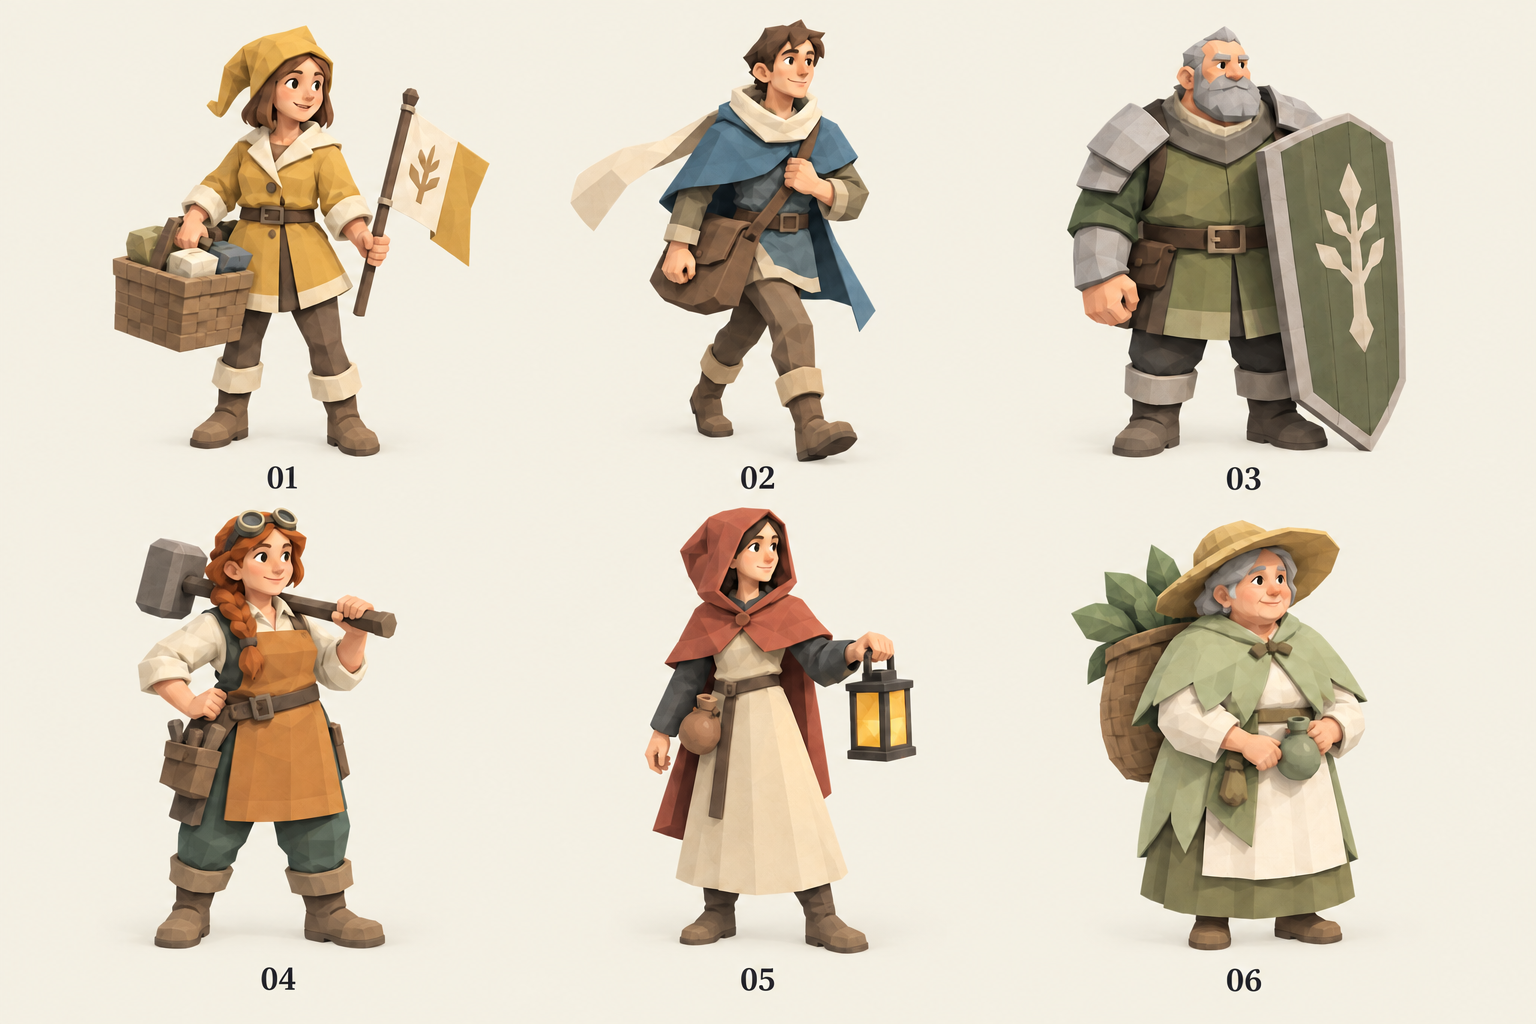
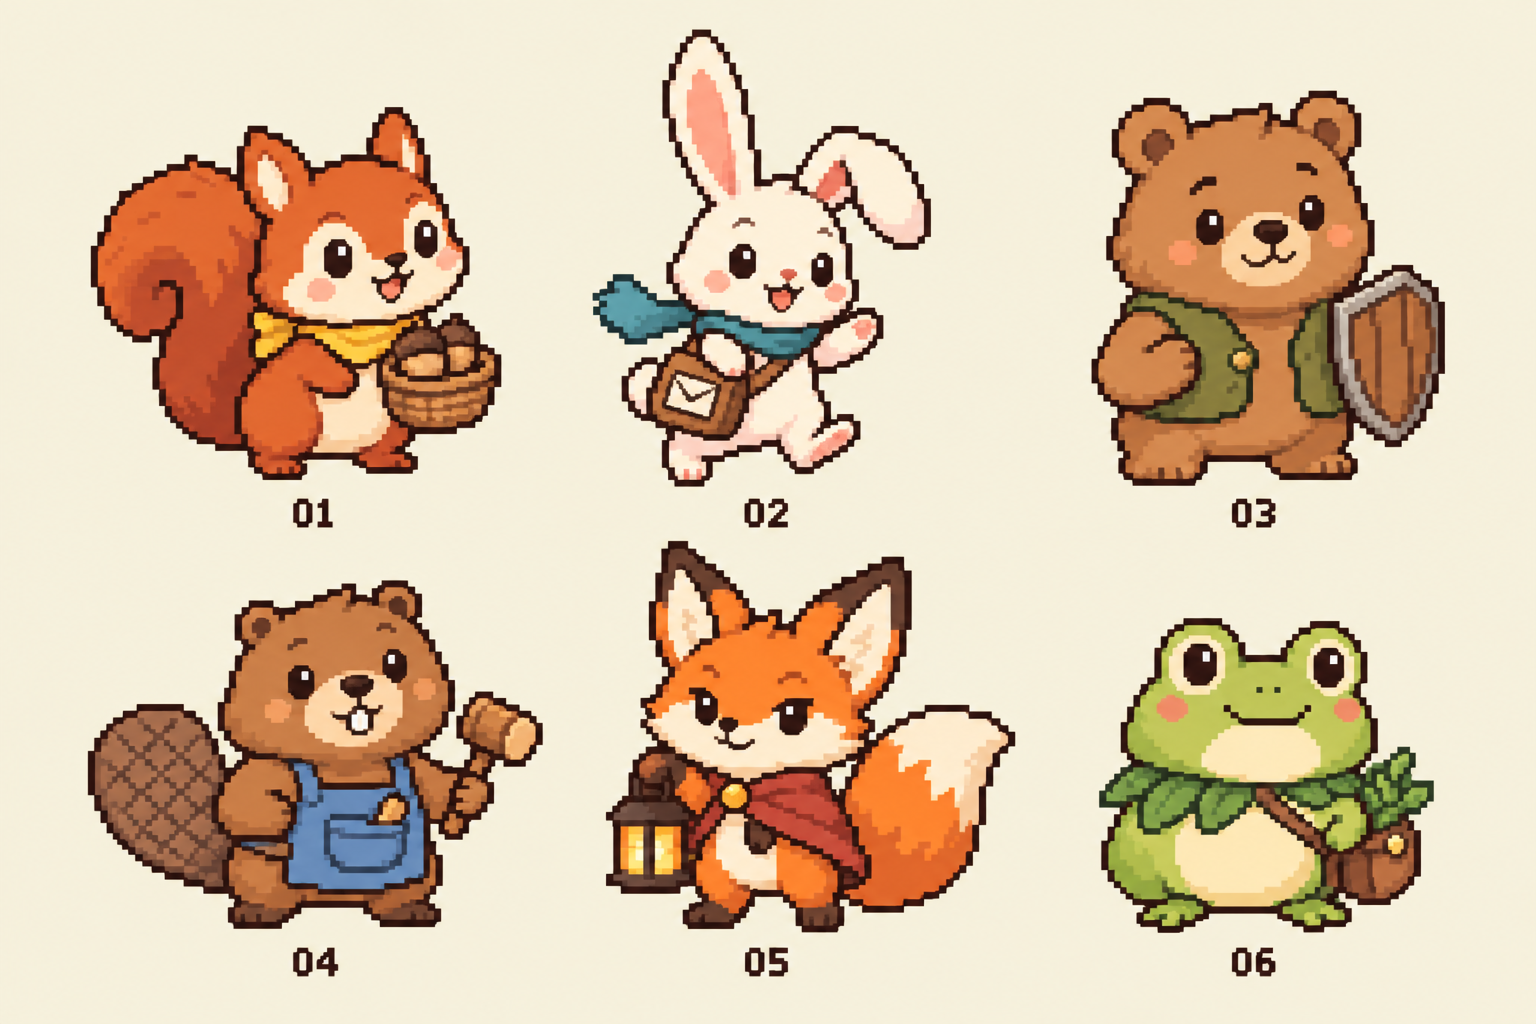
将指挥官造型调整为可爱像素动物

diff --git a/docs/art/block_war_commanders_prompt.md b/docs/art/block_war_commanders_prompt.md
@@ -1,25 +1,32 @@
-# 指挥官造型对照板 · 生图记录
+# 可爱像素动物指挥官 · 生图记录
 
-工具：内置 image_gen，经 imagegen 技能执行。用途：六名可选指挥官的造型提案，不作为正式游戏模型或技能特效。
+工具：内置 image_gen，经 imagegen 技能执行。用途：六名可选指挥官的造型对照板；不作为正式游戏动画图集。生成后仅修整背景与编号的可读性。
 
-## 初版提示词
+用户确认的方向：像素风格、更加可爱、全部为动物。编号与玩法定位保持对应，形象依次为松鼠、兔子、小熊、海狸、狐狸、青蛙。
+
+## 生成提示词
 
 ```text
 Use case: stylized-concept.
-Asset type: ONE six-character art-direction comparison sheet for a Godot low-poly woodland medieval building-conquest strategy game. This is a proposal sheet, not finished in-game assets.
-Primary request: six selectable HUMAN commanders, each recognisable from silhouette alone, matching small painted wooden toy soldiers and warm rural stone/wood buildings. Hand-authored game art sensibility, economical flat polygonal planes, 3D low-poly maquette render, plain matte colors. No photoreal skin, no ornate RPG armor, no glossy collectible plastic, no AI-fantasy clutter.
-Composition: landscape board, three equally spaced full-body figures across the top and three across the bottom, identical orthographic three-quarter camera and scale, each with enough negative space. Warm off-white plain paper backdrop and only soft contact shadows. One neat small dark label below each character, exact labels '01', '02', '03', '04', '05', '06'. No other text, no cards, no circles or pedestals behind figures, no UI panels. Every figure's boots visible.
-01: hazelnut village quartermaster, welcoming practical young woman, broad mustard soft cap with one bent tip, short wheat-colored coat, square wicker supply basket, one small folded muster flag. Compact balanced triangular silhouette, mustard and flax.
-02: swift village courier, lively lanky young man, short asymmetrical muted teal cloak and a long cream scarf trailing sideways, leather message satchel, light boots, forward poised stance. Tall slim diagonal silhouette, blue-green and tan.
-03: old bridge warden, broad stocky older man with a blocky short grey beard, square olive-grey wooden shield reaching shoulder height, modest stone-colored shoulder plates, sturdy stance. Wide rectangular silhouette, slate and moss.
-04: copper workshop engineer, curious sturdy woman with one chunky side braid, ochre leather apron, tiny brass goggles resting on forehead, wooden mallet over one shoulder, blocky tool pouch. Asymmetrical T silhouette, copper and muted spruce.
-05: night watch firekeeper, reserved slim adult woman in a short brick-red hood with a pointed folded corner, plain long sand-colored tunic, a simple square amber lantern held away from body and small clay oil pot on belt. Lantern is warm but restrained, no floating magical flames. Tall tapered silhouette, terracotta and charcoal.
-06: streamside herbalist, calm round-cheeked older woman, wide low straw hat, pale sage short leaf-shaped mantle, a single broad oval wicker herb pack with three large simple leaf shapes, one small plain ceramic flask. Round silhouette, sage and oatmeal.
-Faces minimal but friendly, small angular eyes, visible human faces, chunky hands, proportion about four heads tall. Large clear color blocks; avoid excessive seams, buckles, jewelry, accessories, weapons, glowing outlines, particle halos, gradients, repeated faces, animal heads. Maintain the same restrained crafted woodland world across all six.
+Asset type: ONE revised six-commander concept comparison sheet for a cozy strategy game.
+Primary request: SIX CUTE PIXEL-ART ANIMAL CHARACTERS. Every character is an actual friendly animal with animal anatomy, muzzle/beak where appropriate, animal paws and distinct ears/tails. Chubby little two-head-tall creatures, oversized heads, tiny soft bodies, short legs, appealing restrained expressions. Cozy handcrafted 16-bit game sprite art with readable silhouettes and simple accessories.
+
+PIXEL ART IS ESSENTIAL: design on a single consistent LOW-RES logical canvas 384 x 256, displayed at a crisp integer enlargement. Each full-body character fits approximately a 64 x 72 logical-pixel sprite. Obvious chunky square pixels, clean stepped edges, intentional pixel clusters, dark warm-brown one-pixel outlines, flat 2–3 shade ramps, roughly 24–32 colors for the entire sheet. NO antialiasing, no smooth vector curves, no 3D / low-poly / voxel rendering, no painterly brushwork, no furry realism, no soft gradients or blur, no texture noise. Do not pixelate a detailed illustration: draw actual economical pixel sprites from the start.
+
+Composition: three columns by two rows, generous equal spacing, matching front-three-quarter view, full bodies and tails visible. Flat pale warm cream background #F7F2DF, absolutely no stage, frames, circular backplates, vignette or elaborate scenery. Tiny contact shadow made of a few flat pixels permitted. Put only one dark clearly readable pixel-font number below each sprite: top row '01', '02', '03'; bottom row '04', '05', '06'. No titles and no other text.
+
+01: LITTLE RED SQUIRREL quartermaster. Round cheeks, tiny round ears and a large curled fluffy tail filling one side of the silhouette. Warm russet fur, cream tummy, short honey-yellow neckerchief, holding a small square wicker basket with two acorns. Cheerful eager expression. This is the recruitment/economy commander.
+02: LITTLE WHITE RABBIT courier. Two very long ears, one ear gently flopped, small round pink cheeks, tiny feet, a short muted-teal scarf trailing sideways and a single little tan letter bag. A lively leaning pose and one raised paw. This is the movement/quick-reinforcement commander.
+03: LITTLE HONEY-BROWN BEAR guardian. Broad round head, small round ears, widest and stockiest body of the six, tiny friendly eyebrows, olive short vest, holding a simple broad wooden shield in one paw. Gentle rather than intimidating. This is the defense commander.
+04: LITTLE BEAVER engineer. Cocoa-brown fur, cream muzzle, two tiny visible front teeth, distinctive broad flat paddle tail at one side with just a few cross-hatched pixels. Dusty-blue tiny apron, one little wooden mallet, curious cheerful eyes. This is the workshop/building commander.
+05: LITTLE ORANGE FOX firekeeper. Oversized triangular ears clearly visible, cream cheek tufts, large white-tipped tail, small brick-red shoulder cape, holding a square amber lantern. A slightly mischievous but sweet smile. Lantern light is only 2–3 hard pixel colors, no bloom. This is the fire/area-control commander.
+06: LITTLE ROUND GREEN FROG herbalist. Big eyes on top of the broad head, pale cream belly, tiny webbed feet, sage-green leaf collar and one small herb satchel with a simple sprig. Contented smiling mouth. Round low silhouette. This is the support/slow-field commander.
+
+Animal heads must stay fully visible. No humans, no human noses, faces or hairstyles, no people wearing animal costumes, no realistic muscular human bodies, no tall humanoid warriors, no armor clutter, no ornate fantasy spell circles. All six share the same warm, light, adorable pixel-art visual language, at the same pixel density. This is a concept sheet, not a finished animation atlas.
 ```
 
-## 定向修改提示词
+## 背景整理提示词
 
 ```text
-Use case: precise-object-edit. Edit only the BACKGROUND and the six numeric labels of this six-commander concept sheet. Preserve all six characters exactly: their faces, poses, clothing, props, placement, size, low-poly material and full silhouettes. Replace the dark vignetted brown/black background with a perfectly plain LIGHT warm off-white paper color #F3EFE3, uniform across the entire canvas, with only very subtle small contact shadows at their boots. No gradients, no dramatic spotlights, no glow behind characters, no dark corners, no panels or circle backplates. Make the existing labels '01', '02', '03', '04', '05', '06' clearly legible in dark charcoal, same positions underneath the corresponding figures, slightly larger simple type. Leave generous clean space around each character. Do not change the characters or add any other text.
+undefined
 ```

diff --git a/docs/block_war_commanders.md b/docs/block_war_commanders.md
@@ -1,23 +1,23 @@
-# 可选指挥官提案 · 2026-09-26
+# 可选指挥官提案 · 可爱像素动物
 
 这六名角色是选人方向，尚未接入游戏。当前实装仍为原来的四个技能；本次先完成了电脑使用同一套技能、技能规则审查和原生特效。以下新技能的数字是首轮测试起点，不代表已经达到对战平衡。
 
-指挥官通过头像、立绘、专属技能和声音表达性格，不增加一名需要微操的场上英雄。阵营屋顶、人口数字和小兵仍沿用现有规则。角色衣服的固有颜色不替代阵营色，头像旁保留阵营旗。
+六名指挥官统一采用可爱的二维像素动物：大头、短手短脚、圆润表情，用耳朵、尾巴、体型和一件职业道具区分角色。指挥官通过头像、立绘、专属技能和声音表达性格。角色自身配色不替代阵营色，头像旁保留阵营旗。
 
-![六名指挥官造型提案](art/block_war_commanders.png)
+![六名可爱像素动物指挥官](art/block_war_commanders.png)
 
-造型板使用内置 image_gen 生成，经过浅色背景与编号可读性修整；[完整提示词](art/block_war_commanders_prompt.md)。正式模型将继续简化到项目现有民兵的块面与细节密度。
+造型板使用内置 image_gen 生成；[完整提示词](art/block_war_commanders_prompt.md)。角色使用清晰的方形像素、克制的色阶和一致的像素密度。正式头像和立绘将按确定的低分辨率网格逐张制作，用最近邻整数倍放大；本图仅为造型提案，不直接作为可切帧动画图集。
 
 ## 六个方向
 
 | 编号 | 指挥官 | 轮廓、性格 | 擅长 | 必须保留的弱点 |
 | --- | --- | --- | --- | --- |
-| 01 | 榛果 · 林地管家 | 宽软帽、方藤篮、麦黄短外套；热心、有条理 | 征召、住宅运营、支援盟友 | 临场爆发弱，新增兵力需要时间出门 |
-| 02 | 雨燕 · 驿路信使 | 瘦长身形、短青披肩、向侧面飘的围巾；机灵急性子 | 调动、增援、两线切换 | 不凭空增加人口，正面换损没有常驻优势 |
-| 03 | 岩伯 · 石桥守卫 | 宽肩方盾、灰短胡须、橄榄色粗布；沉稳寡言 | 守住关键据点、抵挡一波进攻 | 反攻慢，保护效果到期后有空窗 |
-| 04 | 铜雀 · 工坊匠师 | 侧辫、皮围裙、小铜护目镜、肩扛木锤；好奇、爱修东西 | 施工节奏、炮塔支援 | 依赖已有建筑，不能免费获得升级或常驻射程 |
-| 05 | 灯芯 · 巡夜火守 | 折角砖红兜帽、方提灯、细长身形；克制谨慎 | 预判密集行军、封住短时通路 | 火焰误伤真实存在，落点有清晰预告 |
-| 06 | 苔铃 · 溪谷药师 | 扁草帽、鼠尾草披肩、圆药篓；耐心、温和 | 减速牵制、缓解持续损耗 | 没有瞬间歼灭或大规模征召，节奏偏慢 |
+| 01 | 榛果 · 松鼠管家 | 圆脸、大卷尾、蜂蜜色小领巾、橡果篮；热心、有条理 | 征召、住宅运营、支援盟友 | 临场爆发弱，新增兵力需要时间出门 |
+| 02 | 跳豆 · 兔子信使 | 长耳朵一立一垂、白色圆肚、青色短围巾、小邮包；机灵急性子 | 调动、增援、两线切换 | 不凭空增加人口，正面换损没有常驻优势 |
+| 03 | 栗团 · 小熊守卫 | 最宽的圆身、圆耳、小橄榄背心、宽木盾；温厚可靠 | 守住关键据点、抵挡一波进攻 | 反攻慢，保护效果到期后有空窗 |
+| 04 | 木丁 · 海狸工匠 | 小门牙、扁桨尾、蓝灰围裙、短木锤；好奇、爱修东西 | 施工节奏、炮塔支援 | 依赖已有建筑，不能免费获得升级或常驻射程 |
+| 05 | 灯芯 · 狐狸火守 | 大尖耳、奶白脸颊、白尖蓬尾、砖红小披肩、方提灯；机灵但做事谨慎 | 预判密集行军、封住短时通路 | 火焰误伤真实存在，落点有清晰预告 |
+| 06 | 苔铃 · 青蛙药师 | 低矮圆身、头顶大眼、奶油肚皮、叶片领与小药包；温和、有耐心 | 减速牵制、缓解持续损耗 | 没有瞬间歼灭或大规模征召，节奏偏慢 |
 
 首批建议 **01、02、03**：对应人口、时间、守备三种容易感知的资源，玩家能用现有玩法理解它们的差别；其余三名更适合在核心对战稳定后加入。
 
@@ -36,7 +36,7 @@
 
 R 用分散增兵换取支援多线的便利，单位技力的人口收益低于 Q，避免“更大的 Q”成为唯一答案。W 是人口搬运，不再制造一批免费单位。
 
-### 02 雨燕：用时间优势完成包夹
+### 02 跳豆：用时间优势完成包夹
 
 | 键 | 技能 | 起始数值与限制 | 原生特效方向 |
 | --- | --- | --- | --- |
@@ -47,7 +47,7 @@ R 用分散增兵换取支援多线的便利，单位技力的人口收益低于
 
 速度效果取最高值，不叠乘。收拢能缩小经过炮塔边缘的暴露范围，却更怕范围火攻；不赋予闪避概率或无敌。
 
-### 03 岩伯：选择在哪座建筑接下这一波
+### 03 栗团：选择在哪座建筑接下这一波
 
 | 键 | 技能 | 起始数值与限制 | 原生特效方向 |
 | --- | --- | --- | --- |
@@ -58,7 +58,7 @@ R 用分散增兵换取支援多线的便利，单位技力的人口收益低于
 
 群体保护降低单点强度。换防不瞬移、不免疫火焰。防御仍进入现有加减汇总公式，不能另乘一个减伤系数。
 
-### 04 铜雀：支付人口以后，加快关键建设窗口
+### 04 木丁：支付人口以后，加快关键建设窗口
 
 | 键 | 技能 | 起始数值与限制 | 原生特效方向 |
 | --- | --- | --- | --- |
@@ -97,6 +97,6 @@ R 用分散增兵换取支援多线的便利，单位技力的人口收益低于
 2. 同一角色双方对称；电脑使用相同技力、冷却、预告和友军误伤规则。难度调整先改变判断间隔与目标质量，不靠隐藏数值作弊。
 3. 首批先做 01/02/03 的选择界面与完整技能组，再验 1v1、2v2、3v3：轮换出生点和双方角色，分别统计胜率、结束时间、净增人口、及时增援、每点技力避免的损失。
 4. 目标是轮换出生点后的对局胜率接近 50%，45%–55% 用作初步排查区间；不足够多的对局不能据此宣称平衡。要额外检查窄桥火攻、三个盟友集中保护、早期人口滚雪球和纯防守拖延。
-5. 造型先保证剪影差异，再细化面部；正式模型沿用项目的块面材质。技能图标用现有方卡体系，角色菜单不新增一圈圈底色圆盘。
+5. 所有角色都保留完整的动物头部、爪子与物种特征，约两头身；用少量像素块表达眼睛、嘴巴和职业道具，避免配饰掩盖动物轮廓。每个材质控制在两至三个色阶，轮廓清楚，缩小后仍能辨认物种。技能图标继续使用现有方卡体系。
 
 本次四项技能的实机粒子预览见 [Q/W/E/R 动画](art/block_war_skills_review.gif)。当前规则审查见 [技能平衡记录](block_war_skill_balance.md)。
